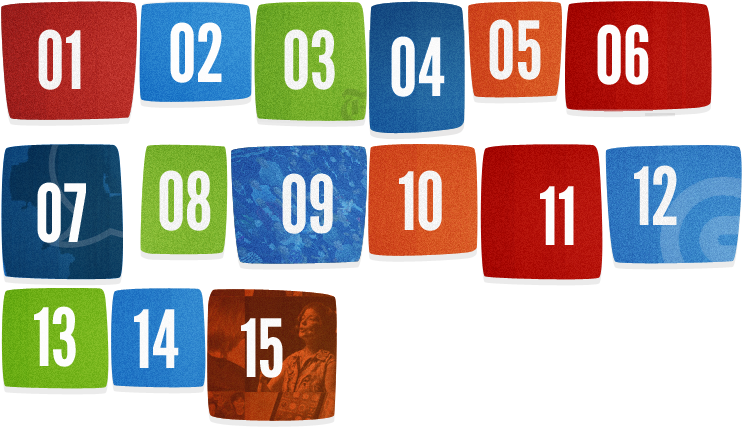
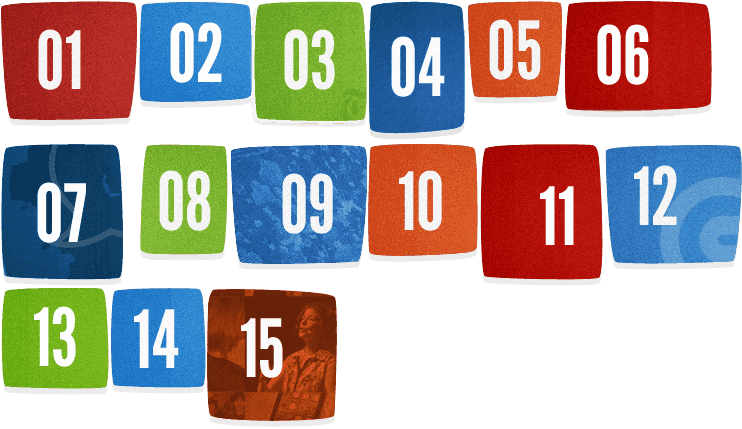
Finished up mobile styling

Changed region(s): [[0.403, 0.2727, 0.434, 0.303]]

diff --git a/media/css/mozilla15.less b/media/css/mozilla15.less
@@ -51,8 +51,8 @@
   margin: 0 auto 10px;
   padding-left: 290px;
   .title {
-    width: 220px;
-    height: 175px;
+    width: 230px;
+    height: 180px;
     position: absolute;
     left: 25px;
     top: 0;
@@ -1027,6 +1027,13 @@
 }
 
 /* Fact =09 - Mozfest */
+#fact09 {
+  .number {
+    width: 139px;
+    height: 127px;
+    background-position: -229px -143px;
+  }
+}
 .on #fact09 {
   .number, .message, .block1, .block2, .logo, .logo span {
     background: url(/media/img/contribute/mozilla15/fact09-pads.png) no-repeat;
@@ -1155,6 +1162,13 @@
 }
 
 /* Fact =10 - Webmaker */
+#fact10 {
+  .number {
+    width: 111px;
+    height: 118px;
+    background-position: -368px -143px;
+  }
+}
 .on #fact10 {
   .number, .message, .block1, .block2 {
     background: url(/media/img/contribute/mozilla15/fact10-pads.png) no-repeat;
@@ -1246,6 +1260,14 @@
 }
 
 /* Fact =11 - WebFWD */
+#fact11 {
+  .number {
+    width: 125px;
+    height: 142px;
+    background-position: -479px -143px;
+    margin-left: -141px;
+  }
+}
 .on #fact11 {
   .number, .message, .block1, .logo {
     background: url(/media/img/contribute/mozilla15/fact11-pads.png) no-repeat;
@@ -1372,6 +1394,13 @@
 }
 
 /* Fact =12 - MDN */
+#fact12 {
+  .number {
+    width: 138px;
+    height: 127px;
+    background-position: -604px -143px;
+  }
+}
 .on #fact12 {
   .number, .message, .block1, .block2, .stars, .rocket {
     background: url(/media/img/contribute/mozilla15/fact12-pads.png) no-repeat;
@@ -1557,6 +1586,13 @@
 }
 
 /* Fact =13 - <3 the web */
+#fact13 {
+  .number {
+    width: 110px;
+    height: 108px;
+    background-position: 0 -287px;
+  }
+}
 .on #fact13 {
   .number, .message, .block1 {
     background: url(/media/img/contribute/mozilla15/fact13-pads.png) no-repeat;
@@ -1611,6 +1647,14 @@
 }
 
 /* Fact =14 - Firefox OS */
+#fact14 {
+  .number {
+    width: 97px;
+    height: 106px;
+    background-position: -110px -287px;
+    margin-left: -122px;
+  }
+}
 .on #fact14 {
   .number, .message, .block1, .block2, .shadow, .phone, .fox {
     background: url(/media/img/contribute/mozilla15/fact14-pads.png) no-repeat;
@@ -1769,6 +1813,13 @@
 }
 
 /* Fact =15 - Thank you */
+#fact15 {
+  .number {
+    width: 130px;
+    height: 142px;
+    background-position: -207px -287px;
+  }
+}
 .on #fact15 {
   .number, .message, .block1, .block2 {
     background-image: url(/media/img/contribute/mozilla15/fact15-pads.png);
@@ -2005,13 +2056,54 @@
         width: auto;
         height: auto;
         text-indent: 0;
+        text-align: center;
         padding: 5px 12px;
-        border-radius: 5px;
-        background: gray none;
+        border-radius: 25%;
+        background: #ccc none;
         color: #fff;
         font-weight: bold;
         font-size: 26px;
         margin: 10px 15px 5px 0;
+        box-shadow: 0 5px 0 rgba(0,0,0,.08);
+      }
+    }  
+    #fact01,
+    #fact06,
+    #fact11 {
+      .number {
+        background-color: #bf383e; /* red */
+      }
+    }
+    
+    #fact02,
+    #fact07,
+    #fact12 {
+      .number {
+        background-color: #1362ae; /* dark blue */
+      }
+    }
+    
+    #fact03,
+    #fact08,
+    #fact13 {
+      .number {
+        background-color: #86bb36; /* green */
+      }
+    }
+    
+    #fact04,
+    #fact09,
+    #fact14 {
+      .number {
+        background-color: #54a3dd; /* light blue */
+      }
+    }
+    
+    #fact05,
+    #fact10,
+    #fact15 {
+      .number {
+        background-color: #e26c33; /* orange */
       }
     }
   }

diff --git a/media/js/mozilla15.js b/media/js/mozilla15.js
@@ -7,7 +7,6 @@
 
     // default user action to auto
     var action = 'auto';
-    
     var $window = $(window);
     var wideMode = false;
 
@@ -16,7 +15,7 @@
         nextButton: '.next',
         prevButton: '.prev',
         autoPlay: true,
-        autoPlayDelay: 2000,
+        autoPlayDelay: 7000,
         pauseOnHover: true,
         moveActiveFrameToTop: false,
         fadeFrameWhenSkipped: false,
@@ -36,8 +35,8 @@
     }
 
     $window.resize(function() {
-        clearTimeout(this.id);
-        this.id = setTimeout(doneResizing, 500);
+        clearTimeout(this.resizeTimeoutId);
+        this.resizeTimeoutId = setTimeout(doneResizing, 200);
     });
 
     function doneResizing() {
@@ -51,6 +50,7 @@
             slideshow.stopAutoPlay();
         }
     }
+    $(doneResizing);  // Call once when done loading the page to initialize.
 
 
     var track = function() {

diff --git a/media/css/contribute.less b/media/css/contribute.less
@@ -238,7 +238,6 @@
                     margin: 0 3px .25em 0;
                 }
                 a {
-                    padding: 0 8px;
                     margin-bottom: .5em;
                 }
             }
